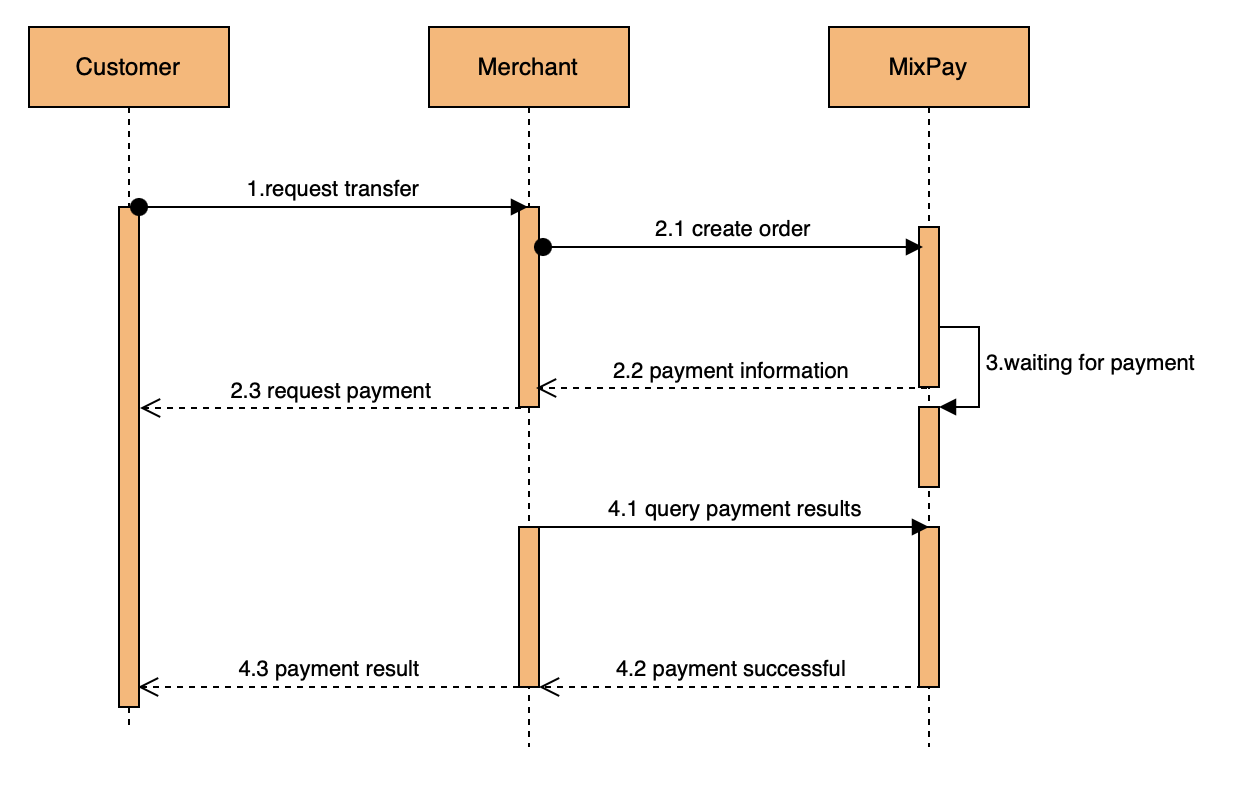
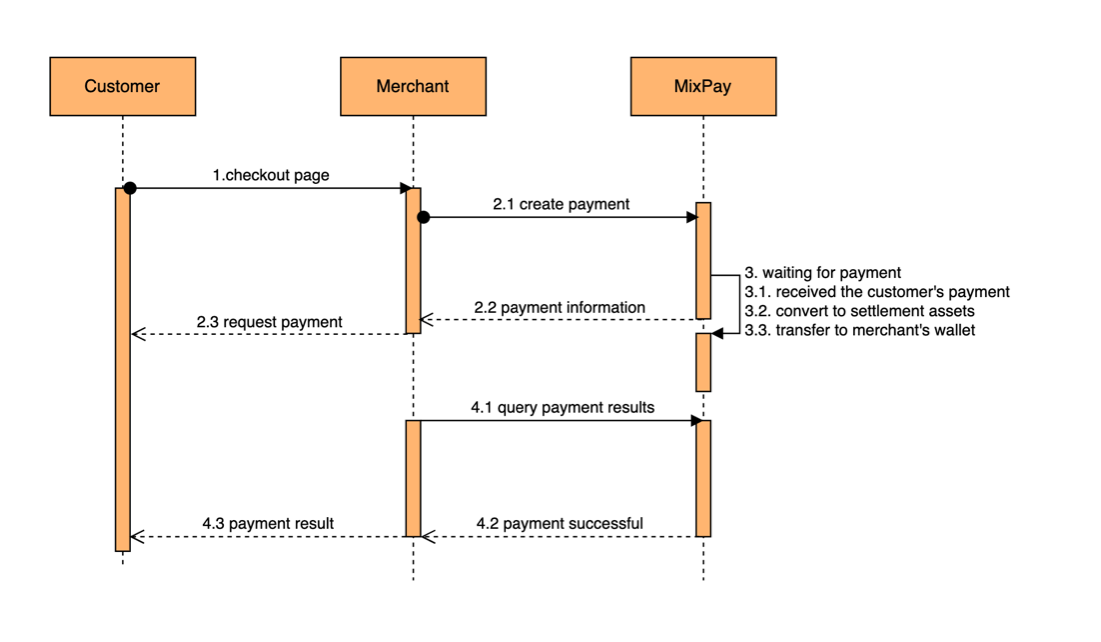
finishing getting-started

diff --git a/content/guides/getting-started.md b/content/guides/getting-started.md
@@ -1,59 +1,86 @@
 ---
-summary:  In this article will guide how to intergrate MixPay into your existing system.
+summary:  In this article will guide how to integrate MixPay into your existing system.
 ---
 
-Before you get started, please make sure you are familiar with MixPay and Mixin Messenger, and then you need to have a Mixin account. You need to search for `7000104220` in Mixin Messenger, click "Add bot" and open it. This bot is the best demo for this API. This article will explain to you how to use this API better by showing the features of MixPay.
+This article is your first step to integrating MixPay crypto payment gateway into your existing system.
+
+## Mixin & MixPay
+
+First of all, let's get familiar with Mixin & MixPay.
+
+### 1. Whit is Mixin?
+
+In general,  [Mixin consists of two-part:
+
+- Mixin Network
+- Mixin Messenger App
+
+### 2. What is Mixin Network?
+
+A lightning-fast and decentralized network for transferring digital assets.
+
+You can see it as a blockchain that handles all the payment transactions.
+
+### 3. What is Mixin App?
+
+Most of the time, we refer Mixin App as the Mixin Messenger App.
+
+Mixin App is an open-source **cryptocurrency wallet**. Mixin App also has a real-time messaging feature, like WhatsApp.
+
+### 4. Mixin & MixPay?
+
+MixPay uses the Mixin App [Messenger Bot](https://developers.mixin.one/docs/dapp/mixin-applications#messenger-bot) to construct the UI, which is an application inside Mixin App. 
+
+On the server-side, MixPay leverage the [Mixin Network](https://developers.mixin.one/docs/mainnet/overview) to transfer crypto-assets.
+
+### 5. How to install Mixin App?
+
+You can download the  Mixin Messenger App at [Mixin's official website](https://mixin.one/messenger), currently, it supports desktop applications, but only the mobile App has the wallet feature. In order to proceed with our integration with MixPay, please install the mobile App.
+
+After installed, just use your phone number to register an account, and set up the wallet's PIN number, and you are all set.
+
+### 6. How to install MixPay App?
+
+Once you have a Mixin account. Open the Mixin App:
+
+- Step 1. Search for `7000104220` , like the image shown below;
+- Step 2. Click "Add bot";
+- Step 3. Click the little robot icon to open MixPay.
 
 ![](https://developers.mixpay.me/images/mipklmn.png)
 
-In MixPay, click the "Receive" button to enter the personal QR code home page. When you scan this QR code with your phone, you will go to a payment page. Come and have a try. Just scan the QR code below.
+## MixPay Payment flow
 
-:::note
-Note: The payee of all examples in this article is the official MixPay demo account.
-:::
+To get started, let's have a bird's eyes view of the MixPay Payment flow: 
 
-![](https://developers.mixpay.me/images/rposbfm.png)
-
-Using the MixPay API, you only need to perform the following steps.
-
-1.  The customer confirms the payment details.
-2.  The merchant creates orders and asks customers to pay.
+1.  The customer confirms the order details.
+2.  The merchant creates orders and asks customers to pay (The checkout page).
 3.  MixPay is waiting for payment.
-4.  The merchant query payment results and notify the customer.
+4.  The merchant queries payment results and shows the result to the customer.
 
 ![](https://developers.mixpay.me/images/qmhxunt.png)
 
-Let's assume a scenario where someone goes to your store to buy something, he needs to pay you $10, and you want to receive BTC. But how do you receive payments in your store or at the POS with MixPay? Get started accepting crypto payments by following along in our step-by-step integration guide.
+## How to integrate? 
 
-For example, you need to charge $10 in BTC, we can do this (You can copy the link and open it in a brower:):
+There are several ways you can integrate MixPay to accept crypto payments:
 
-```
-https://mixpay.me/pay?payeeId=a38ed284-5689-4fb9-8c2a-91fba5e32ce9&settlementAssetId=c6d0c728-2624-429b-8e0d-d9d19b6592fa&quoteAssetId=usd&amount=10
-```
+1. Paylink -  MixPay hosted web page, all user interaction happened on this page, you can use it as a "Pay with Crypto" button.
+2. JS Plugin -  Like Paylink to handle all user payment relative interaction, but on your own web page, you can have more control over it.
+3. Raw API call - Above to method are in the browser, if you are in the circumstance that can't use the browser, maybe this is your choice.
+4. Shopify Plugin.
+5. WordPress  WooCommerce Plugin.
 
-You just need to ask someone to open this link to pay.
+Above is just a brief of the integration method available, for more detailed instructions, please visit the doc entry at the left menu.
 
-![](https://developers.mixpay.me/images/pvfjlpq.gif)
+## Where does the money go?
 
-Please [see here](https://developers.mixpay.me/api/overview#one-time-payment) for link generation rules.
+When you received the customer's payment, you have two options to transfer the crypto assets into: 
 
-If you want to exchange 0.01 BTC to ETH, you need to do a lot of work. But if you use MixPay, you only need to make a simple request.
+1. Mixin Wallet (default) ;
+2. MixPay Wallet.
 
-```bash
-curl -i -X POST -H "Content-Type: application/json" \
-    https://api.mixpay.me/v1/payments --data PAYLOAD
-```
+## Where to view all the transactions?
 
-PAYLOAD
+Open the MixPay App in the Mixin App, click the "Payment History" entry like below:
 
-```json
-{
-    "amount": "0.01",
-    "paymentAssetId": "c6d0c728-2624-429b-8e0d-d9d19b6592fa",
-    "settlementAssetId": "c6d0c728-2624-429b-8e0d-d9d19b6592fa",
-    "payeeId":"a38ed284-5689-4fb9-8c2a-91fba5e32ce9",
-    "quoteAssetId": "43d61dcd-e413-450d-80b8-101d5e903357",
-}
-```
-
-For more parameters, please check [API](https://developers.mixpay.me/api/overview).
+![](https://developers.mixpay.me/images/payment_history.png)
